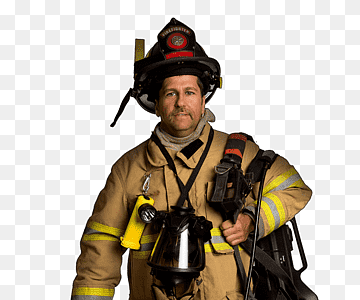
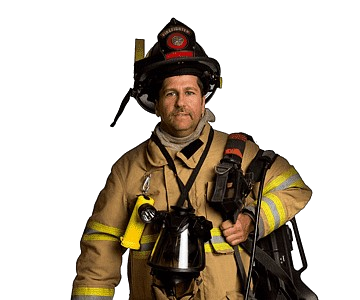
Make changes to the employees page

diff --git a/theme.js b/theme.js
@@ -1,11 +1,18 @@
 const themeToggler = document.getElementById("theme-toggler");
 
+// Load saved theme or default to light
+const savedTheme = localStorage.getItem("theme");
+if (savedTheme) {
+  document.documentElement.style.colorScheme = savedTheme;
+}
+
 function updateButtonLabel() {
   const currentScheme = document.documentElement.style.colorScheme;
 
   if (!currentScheme || currentScheme === "") {
     document.documentElement.style.colorScheme = "light";
     themeToggler.textContent = "Light Mode";
+    localStorage.setItem("theme", "light");
   } else {
     themeToggler.textContent = currentScheme === "dark" ? "Dark Mode" : "Light Mode";
   }
@@ -14,8 +21,10 @@ function updateButtonLabel() {
 themeToggler.addEventListener("click", () => {
   if (document.documentElement.style.colorScheme === "dark") {
     document.documentElement.style.colorScheme = "light";
+    localStorage.setItem("theme", "light");
   } else {
     document.documentElement.style.colorScheme = "dark";
+    localStorage.setItem("theme", "dark");
   }
   updateButtonLabel();
 });

diff --git a/Employees.html b/Employees.html
@@ -69,8 +69,12 @@
           </td>
           
         <td>
-        <img src="fireman2.jpeg">
+        <img src="fireman2.png">
             <p>Name:Brad<br>Last Name: Kelly<br>E-mail:Brad_Kelly@abv.bg</p>
+        </td>
+        <td>
+        <img src="fireman3.png">
+            <p>Name:Ivan<br>Last Name: Todorov<br>E-mail:IvanTodorov@gmail.com</p>
         </td>
     </tr>
 </table>
